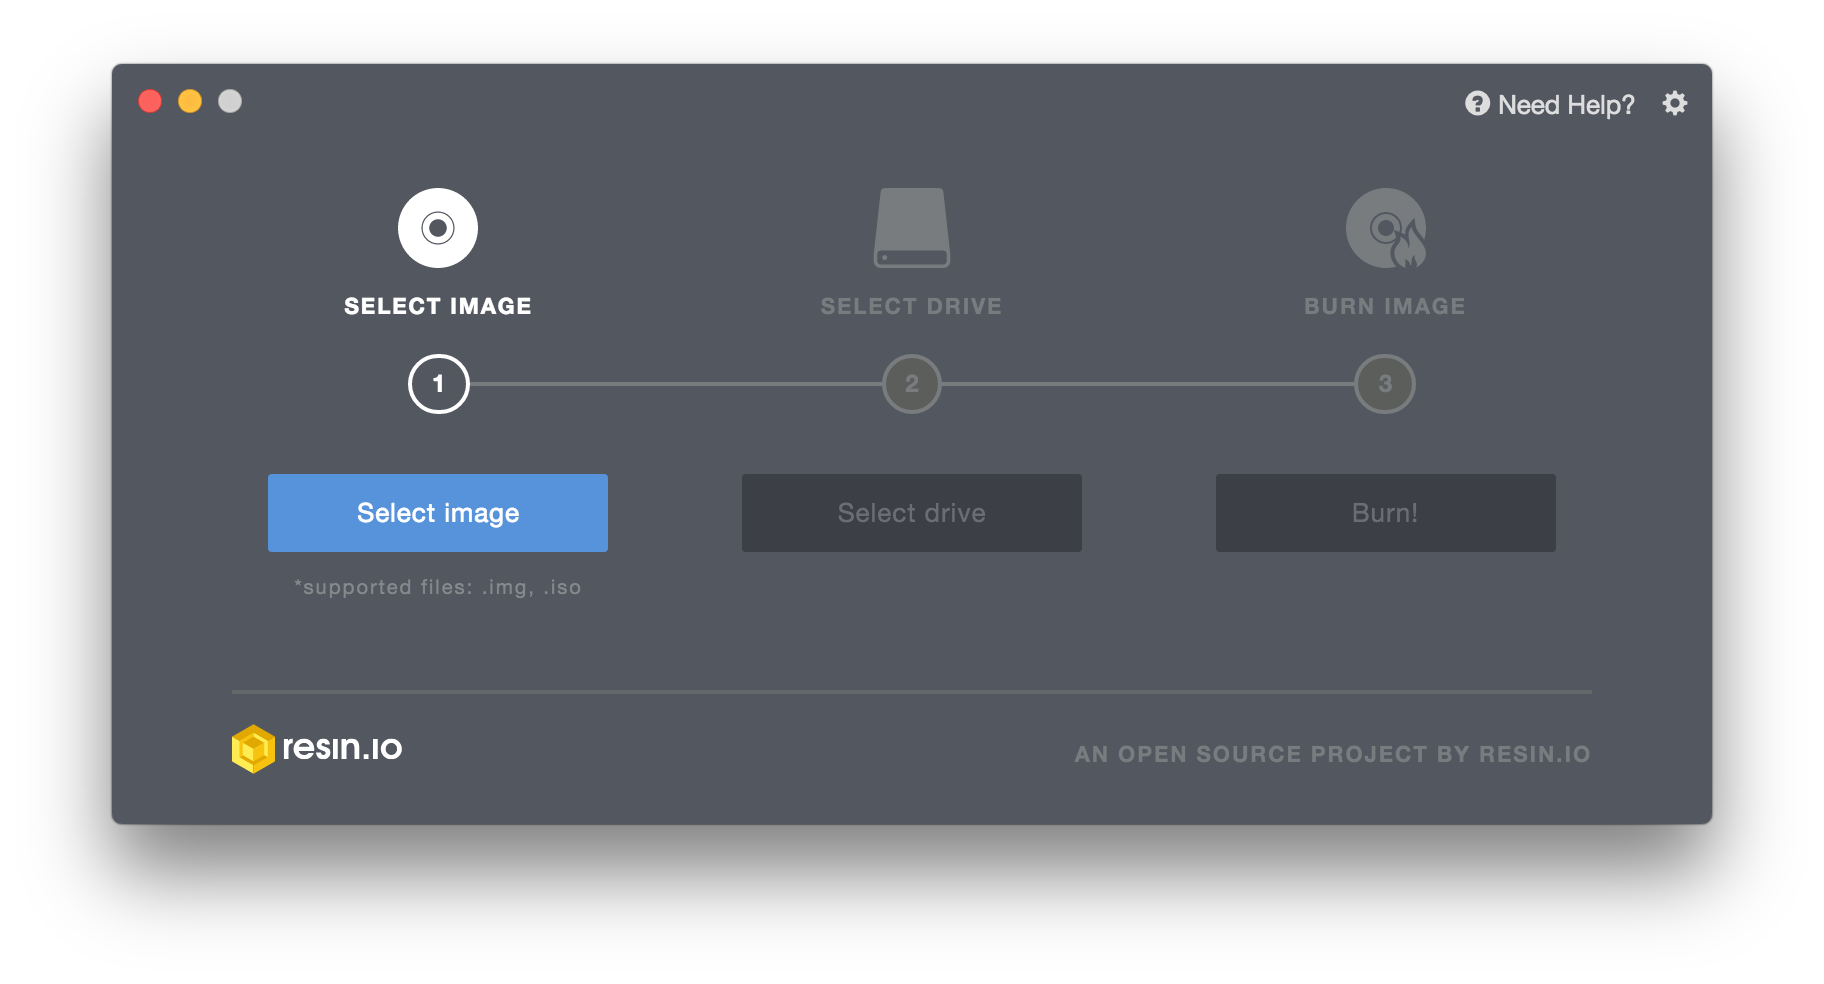
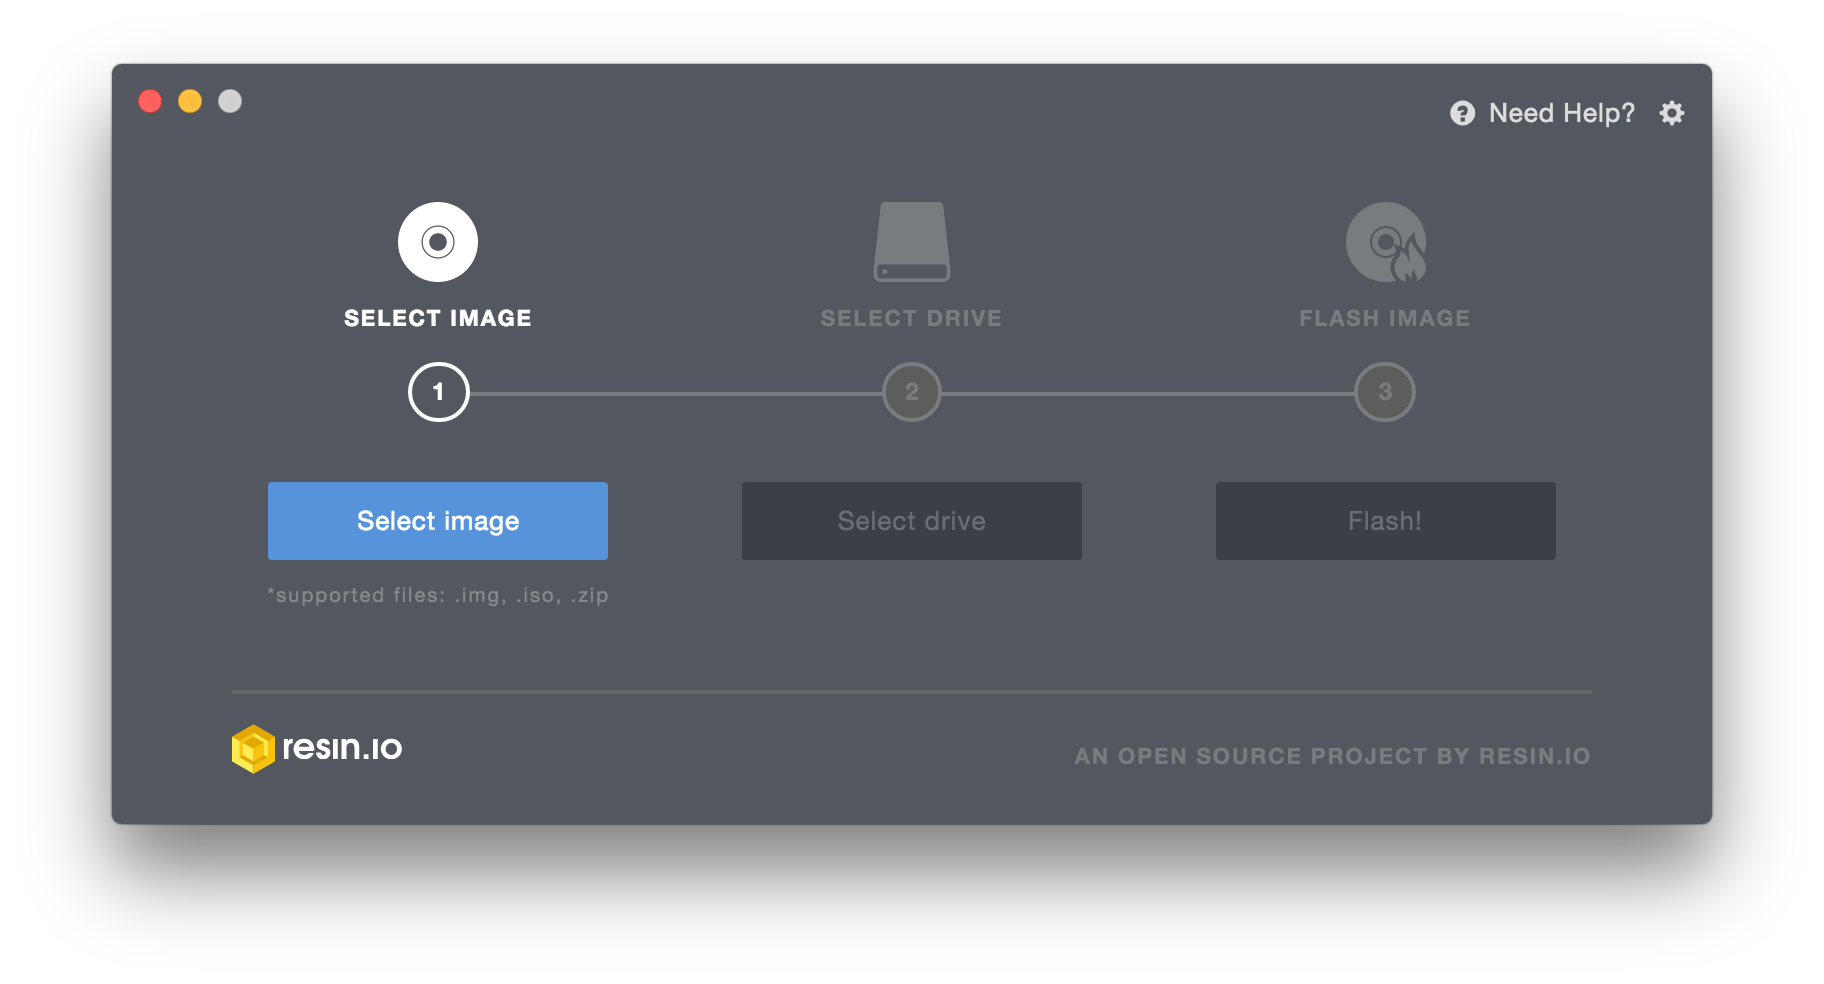
Replace all occurrences of "burn" with "flash"
Technically, a removable drive is flashed, not burned.

Fixes: https://github.com/resin-io/etcher/issues/297

diff --git a/tests/browser/modules/image-writer.spec.js b/tests/browser/modules/image-writer.spec.js
@@ -52,42 +52,42 @@ describe('Browser: ImageWriter', function() {
 
     });
 
-    describe('.isBurning()', function() {
+    describe('.isFlashing()', function() {
 
       it('should return false by default', function() {
-        m.chai.expect(ImageWriterService.isBurning()).to.be.false;
+        m.chai.expect(ImageWriterService.isFlashing()).to.be.false;
       });
 
-      it('should return true if burning', function() {
-        ImageWriterService.setBurning(true);
-        m.chai.expect(ImageWriterService.isBurning()).to.be.true;
+      it('should return true if flashing', function() {
+        ImageWriterService.setFlashing(true);
+        m.chai.expect(ImageWriterService.isFlashing()).to.be.true;
       });
 
     });
 
-    describe('.setBurning()', function() {
+    describe('.setFlashing()', function() {
 
-      it('should be able to set burning to true', function() {
-        ImageWriterService.setBurning(true);
-        m.chai.expect(ImageWriterService.isBurning()).to.be.true;
+      it('should be able to set flashing to true', function() {
+        ImageWriterService.setFlashing(true);
+        m.chai.expect(ImageWriterService.isFlashing()).to.be.true;
       });
 
-      it('should be able to set burning to false', function() {
-        ImageWriterService.setBurning(false);
-        m.chai.expect(ImageWriterService.isBurning()).to.be.false;
+      it('should be able to set flashing to false', function() {
+        ImageWriterService.setFlashing(false);
+        m.chai.expect(ImageWriterService.isFlashing()).to.be.false;
       });
 
       it('should cast to boolean by default', function() {
-        ImageWriterService.setBurning('hello');
-        m.chai.expect(ImageWriterService.isBurning()).to.be.true;
+        ImageWriterService.setFlashing('hello');
+        m.chai.expect(ImageWriterService.isFlashing()).to.be.true;
 
-        ImageWriterService.setBurning('');
-        m.chai.expect(ImageWriterService.isBurning()).to.be.false;
+        ImageWriterService.setFlashing('');
+        m.chai.expect(ImageWriterService.isFlashing()).to.be.false;
       });
 
     });
 
-    describe('.burn()', function() {
+    describe('.flash()', function() {
 
       describe('given a succesful write', function() {
 
@@ -100,31 +100,31 @@ describe('Browser: ImageWriter', function() {
           this.performWriteStub.restore();
         });
 
-        it('should set burning to false when done', function() {
-          ImageWriterService.burn('foo.img', '/dev/disk2');
+        it('should set flashing to false when done', function() {
+          ImageWriterService.flash('foo.img', '/dev/disk2');
           $rootScope.$apply();
-          m.chai.expect(ImageWriterService.isBurning()).to.be.false;
+          m.chai.expect(ImageWriterService.isFlashing()).to.be.false;
         });
 
         it('should prevent writing more than once', function() {
-          ImageWriterService.burn('foo.img', '/dev/disk2');
-          ImageWriterService.burn('foo.img', '/dev/disk2');
+          ImageWriterService.flash('foo.img', '/dev/disk2');
+          ImageWriterService.flash('foo.img', '/dev/disk2');
           $rootScope.$apply();
           m.chai.expect(this.performWriteStub).to.have.been.calledOnce;
         });
 
-        it('should reject the second burn attempt', function() {
-          ImageWriterService.burn('foo.img', '/dev/disk2');
+        it('should reject the second flash attempt', function() {
+          ImageWriterService.flash('foo.img', '/dev/disk2');
 
           let rejectError = null;
-          ImageWriterService.burn('foo.img', '/dev/disk2').catch(function(error) {
+          ImageWriterService.flash('foo.img', '/dev/disk2').catch(function(error) {
             rejectError = error;
           });
 
           $rootScope.$apply();
 
           m.chai.expect(rejectError).to.be.an.instanceof(Error);
-          m.chai.expect(rejectError.message).to.equal('There is already a burn in progress');
+          m.chai.expect(rejectError.message).to.equal('There is already a flash in progress');
         });
 
       });
@@ -140,15 +140,15 @@ describe('Browser: ImageWriter', function() {
           this.performWriteStub.restore();
         });
 
-        it('should set burning to false when done', function() {
-          ImageWriterService.burn('foo.img', '/dev/disk2');
+        it('should set flashing to false when done', function() {
+          ImageWriterService.flash('foo.img', '/dev/disk2');
           $rootScope.$apply();
-          m.chai.expect(ImageWriterService.isBurning()).to.be.false;
+          m.chai.expect(ImageWriterService.isFlashing()).to.be.false;
         });
 
         it('should be rejected with the error', function() {
           let rejection;
-          ImageWriterService.burn('foo.img', '/dev/disk2').catch(function(error) {
+          ImageWriterService.flash('foo.img', '/dev/disk2').catch(function(error) {
             rejection = error;
           });
 

diff --git a/lib/browser/modules/image-writer.js b/lib/browser/modules/image-writer.js
@@ -38,10 +38,10 @@ const imageWriter = angular.module('Etcher.image-writer', [
 
 imageWriter.service('ImageWriterService', function($q, $timeout, SettingsModel, NotifierService) {
   let self = this;
-  let burning = false;
+  let flashing = false;
 
   /**
-   * @summary Reset burn state
+   * @summary Reset flash state
    * @function
    * @public
    *
@@ -56,7 +56,7 @@ imageWriter.service('ImageWriterService', function($q, $timeout, SettingsModel, 
   };
 
   /**
-   * @summary Burn progress state
+   * @summary Flash progress state
    * @type Object
    * @public
    */
@@ -64,36 +64,36 @@ imageWriter.service('ImageWriterService', function($q, $timeout, SettingsModel, 
   this.resetState();
 
   /**
-   * @summary Check if currently burning
+   * @summary Check if currently flashing
    * @function
    * @private
    *
-   * @returns {Boolean} whether is burning or not
+   * @returns {Boolean} whether is flashing or not
    *
    * @example
-   * if (ImageWriterService.isBurning()) {
-   *   console.log('We\'re currently burning');
+   * if (ImageWriterService.isFlashing()) {
+   *   console.log('We\'re currently flashing');
    * }
    */
-  this.isBurning = function() {
-    return burning;
+  this.isFlashing = function() {
+    return flashing;
   };
 
   /**
-   * @summary Set the burning status
+   * @summary Set the flashing status
    * @function
    * @private
    *
    * @description
    * This function is extracted for testing purposes.
    *
-   * @param {Boolean} status - burning status
+   * @param {Boolean} status - flashing status
    *
    * @example
-   * ImageWriterService.setBurning(true);
+   * ImageWriterService.setFlashing(true);
    */
-  this.setBurning = function(status) {
-    burning = Boolean(status);
+  this.setFlashing = function(status) {
+    flashing = Boolean(status);
   };
 
   /**
@@ -122,7 +122,7 @@ imageWriter.service('ImageWriterService', function($q, $timeout, SettingsModel, 
   };
 
   /**
-   * @summary Burn an image to a drive
+   * @summary Flash an image to a drive
    * @function
    * @public
    *
@@ -135,18 +135,18 @@ imageWriter.service('ImageWriterService', function($q, $timeout, SettingsModel, 
    * @returns {Promise}
    *
    * @example
-   * ImageWriterService.burn('foo.img', {
+   * ImageWriterService.flash('foo.img', {
    *   device: '/dev/disk2'
    * }).then(function() {
    *   console.log('Write completed!');
    * });
    */
-  this.burn = function(image, drive) {
-    if (self.isBurning()) {
-      return $q.reject(new Error('There is already a burn in progress'));
+  this.flash = function(image, drive) {
+    if (self.isFlashing()) {
+      return $q.reject(new Error('There is already a flash in progress'));
     }
 
-    self.setBurning(true);
+    self.setFlashing(true);
 
     return self.performWrite(image, drive, function(state) {
 
@@ -165,7 +165,7 @@ imageWriter.service('ImageWriterService', function($q, $timeout, SettingsModel, 
       });
 
     }).finally(function() {
-      self.setBurning(false);
+      self.setFlashing(false);
     });
   };
 

diff --git a/lib/browser/app.js b/lib/browser/app.js
@@ -107,9 +107,9 @@ app.controller('AppController', function(
   this.success = true;
 
   // This catches the case where the user enters
-  // the settings screen when a burn finished
+  // the settings screen when a flash finished
   // and goes back to the main screen with the back button.
-  if (!this.writer.isBurning()) {
+  if (!this.writer.isFlashing()) {
 
     this.selection.clear({
 
@@ -198,7 +198,7 @@ app.controller('AppController', function(
   };
 
   this.reselectImage = function() {
-    if (self.writer.isBurning()) {
+    if (self.writer.isFlashing()) {
       return;
     }
 
@@ -212,7 +212,7 @@ app.controller('AppController', function(
   };
 
   this.reselectDrive = function() {
-    if (self.writer.isBurning()) {
+    if (self.writer.isFlashing()) {
       return;
     }
 
@@ -230,30 +230,30 @@ app.controller('AppController', function(
     AnalyticsService.logEvent('Restart after failure');
   };
 
-  this.burn = function(image, drive) {
+  this.flash = function(image, drive) {
 
-    // Stop scanning drives when burning
+    // Stop scanning drives when flashing
     // otherwise Windows throws EPERM
     self.scanner.stop();
 
-    AnalyticsService.logEvent('Burn', {
+    AnalyticsService.logEvent('Flash', {
       image: image,
       device: drive.device
     });
 
-    return self.writer.burn(image, drive).then(function(success) {
+    return self.writer.flash(image, drive).then(function(success) {
 
-      // TODO: Find a better way to manage burn/check
+      // TODO: Find a better way to manage flash/check
       // success/error state than a global boolean flag.
       self.success = success;
 
       if (self.success) {
-        NotificationService.send('Success!', 'You burn is complete');
+        NotificationService.send('Success!', 'Your flash is complete');
         AnalyticsService.logEvent('Done');
         $state.go('success');
       } else {
-        NotificationService.send('Oops!', 'Looks like your burn has failed');
-        AnalyticsService.logEvent('Burn error');
+        NotificationService.send('Oops!', 'Looks like your flash has failed');
+        AnalyticsService.logEvent('Flash error');
       }
     })
     .catch(dialog.showError)

diff --git a/lib/partials/main.html b/lib/partials/main.html
@@ -46,20 +46,20 @@
 
   <div class="col-xs">
     <div class="box text-center">
-      <hero-icon path="../assets/images/burn.svg" ng-disabled="!app.selection.hasImage() || !app.selection.hasDrive()" label="BURN IMAGE"></hero-icon>
+      <hero-icon path="../assets/images/flash.svg" ng-disabled="!app.selection.hasImage() || !app.selection.hasDrive()" label="FLASH IMAGE"></hero-icon>
       <span class="badge space-top-medium" ng-disabled="!app.selection.hasImage() || !app.selection.hasDrive()">3</span>
 
       <div class="space-vertical-large">
         <progress-button class="btn-brick"
           percentage="app.writer.state.progress"
           striped="{{ app.writer.state.type == 'check' }}"
-          ng-attr-active="{{ app.writer.isBurning() }}"
+          ng-attr-active="{{ app.writer.isFlashing() }}"
           ng-show="app.success"
-          ng-click="app.burn(app.selection.getImage(), app.selection.getDrive())"
+          ng-click="app.flash(app.selection.getImage(), app.selection.getDrive())"
           ng-disabled="!app.selection.hasImage() || !app.selection.hasDrive()">
-            <span ng-show="app.writer.state.progress == 100 && app.writer.isBurning()">Finishing...</span>
-            <span ng-show="app.writer.state.progress == 0 && !app.writer.isBurning()">Burn!</span>
-            <span ng-show="app.writer.state.progress == 0 && app.writer.isBurning() && !app.writer.state.speed">Starting...</span>
+            <span ng-show="app.writer.state.progress == 100 && app.writer.isFlashing()">Finishing...</span>
+            <span ng-show="app.writer.state.progress == 0 && !app.writer.isFlashing()">Flash!</span>
+            <span ng-show="app.writer.state.progress == 0 && app.writer.isFlashing() && !app.writer.state.speed">Starting...</span>
             <span ng-show="app.writer.state.speed && app.writer.state.progress != 100 && app.writer.state.type != 'check'"
               ng-bind="app.writer.state.progress + '% '"></span>
             <span ng-show="app.writer.state.speed && app.writer.state.progress != 100 && app.writer.state.type == 'check'"

diff --git a/lib/browser/pages/finish/templates/success.tpl.html b/lib/browser/pages/finish/templates/success.tpl.html
@@ -1,13 +1,13 @@
 <div class="row around-xs">
   <div class="col-xs">
     <div class="box text-center">
-      <h3><span class="tick tick--success" class="space-right-tiny"></span> Burn Complete!</h3>
+      <h3><span class="tick tick--success" class="space-right-tiny"></span> Flash Complete!</h3>
       <p class="soft space-vertical-medium" ng-show="finish.settings.unmountOnSuccess">Safely ejected and ready for use</p>
 
       <div class="row center-xs space-vertical-large">
         <div class="col-xs-4 space-medium">
           <div class="box">
-            <p class="soft button-label">Would you like to burn the same image?</p>
+            <p class="soft button-label">Would you like to flash the same image?</p>
 
             <button class="btn btn-primary btn-brick" ng-click="finish.restart({ preserveImage: true })">
               Use <b>same</b> image
@@ -19,7 +19,7 @@
 
         <div class="col-xs-4 space-medium">
           <div class="box">
-            <p class="soft button-label">Would you like to burn a new image?</p>
+            <p class="soft button-label">Would you like to flash a new image?</p>
 
             <button class="btn btn-primary btn-brick" ng-click="finish.restart()">
               Use <b>new</b> image

diff --git a/lib/browser/pages/finish/finish.js b/lib/browser/pages/finish/finish.js
@@ -20,7 +20,7 @@
  * @module Etcher.Pages.Finish
  *
  * The finish page represents the application state where
- * the the burn/validation has completed.
+ * the the flash/validation has completed.
  *
  * Its purpose is to display success or failure information,
  * as well as the "next steps".

diff --git a/lib/browser/pages/finish/controllers/finish.js b/lib/browser/pages/finish/controllers/finish.js
@@ -26,7 +26,7 @@ module.exports = function($state, SelectionStateModel, ImageWriterService, Analy
   this.settings = SettingsModel.data;
 
   /**
-   * @summary Restart the burning process
+   * @summary Restart the flashing process
    * @function
    * @public
    *

diff --git a/README.md b/README.md
@@ -1,7 +1,7 @@
 Etcher
 ======
 
-> A better way to burn OS images to SD cards
+> A better way to flash OS images to SD cards
 
 [![dependencies](https://david-dm.org/resin-io/etcher.svg)](https://david-dm.org/resin-io/etcher.svg)
 [![Build Status](https://travis-ci.org/resin-io/etcher.svg?branch=master)](https://travis-ci.org/resin-io/etcher)
